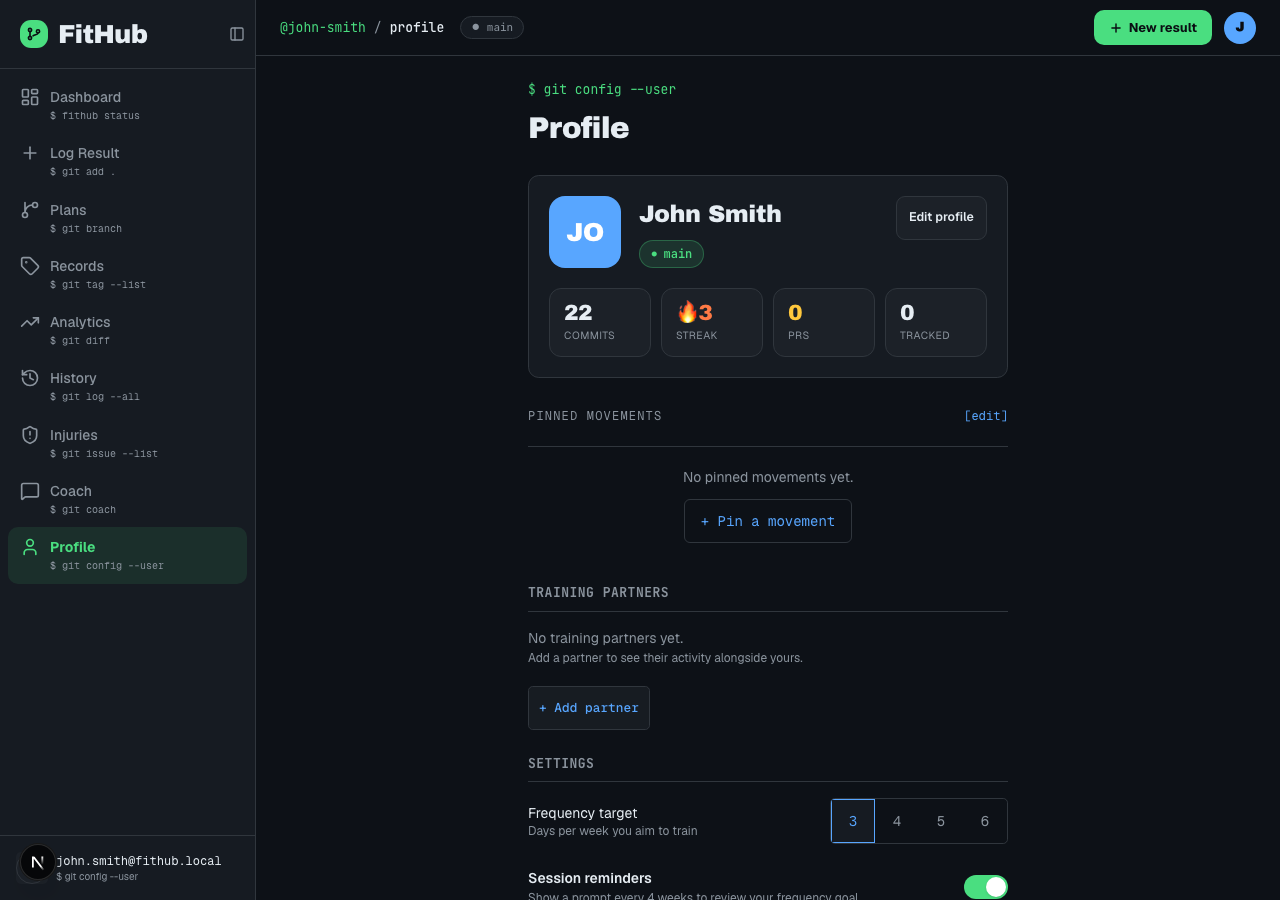
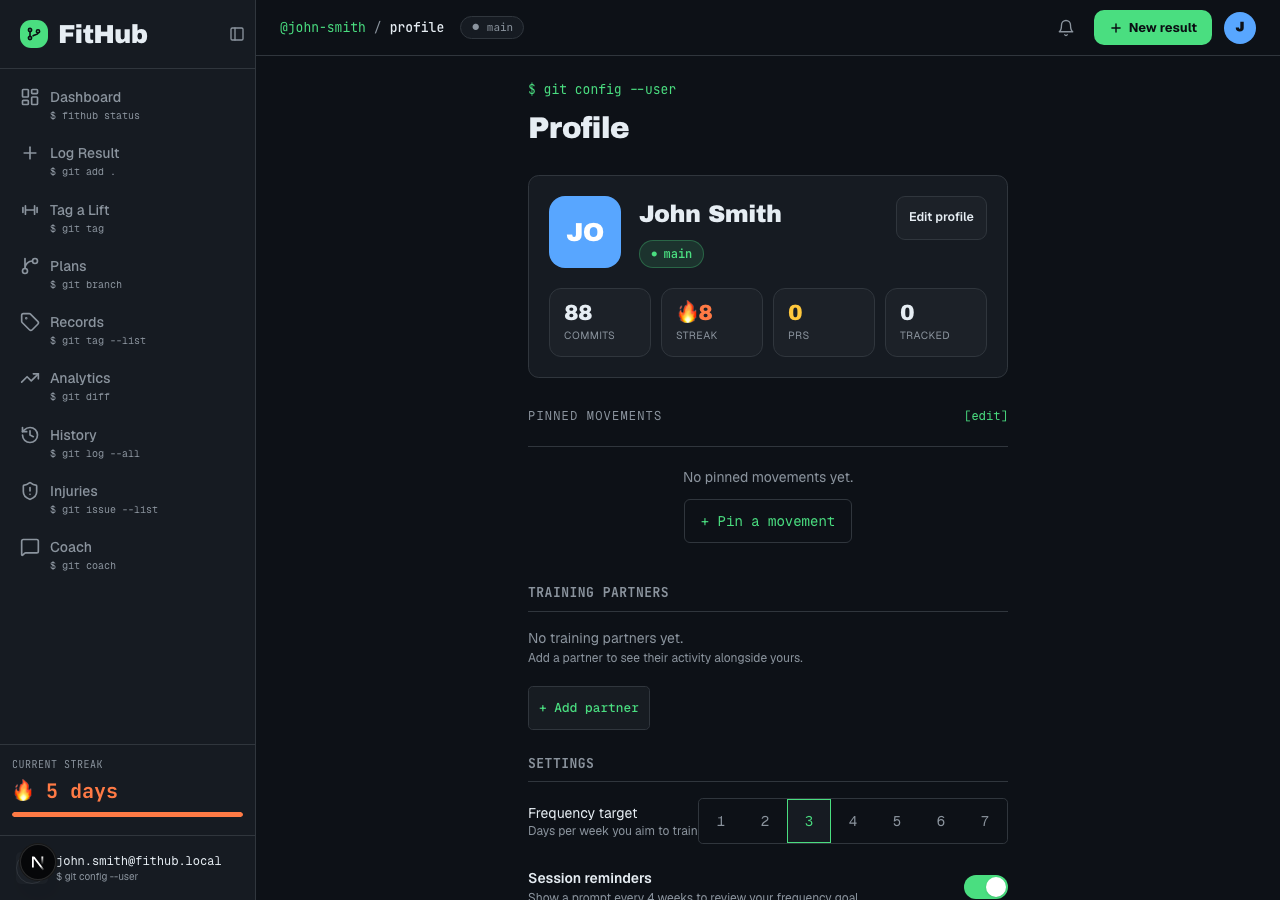
docs: update README and architecture for Programming Flexibility (#337)
* docs: update README and architecture docs for Programming Flexibility

Add session execution and plan wizard to the What it does table, update
test counts (764 -> 1,467 across all suites), expand the plan generator
AI architecture description to cover scaffold-first generation, update
Status & roadmap to mention the feature, and update screenshots.

Add plan wizard, plan detail, and session execute routes to the
architecture.md Where things happen reference table and the app/ tree.
Update the ai/ directory listing to include plan_scaffold.py and
plan_generator.py.

Expand take-screenshots.ts with ensureDemoPlan() (create-then-poll
pattern) and new capture blocks for /plans/new, /plans/[id], and the
session execute view.

* docs: add plan detail and session execute screenshots, refresh all

All 12 README screenshots retaken as John Smith after applying migration
0070 locally. Adds revamp-plan-detail.png and revamp-session-execute.png,
which were deferred when plan generation failed without the migration.

diff --git a/apps/web/e2e/take-screenshots.ts b/apps/web/e2e/take-screenshots.ts
@@ -116,6 +116,81 @@ async function loginAndSetSession(page: Page, _token: string): Promise<void> {
 
 // ── Data seeding ──────────────────────────────────────────────────────────────
 
+async function ensureDemoPlan(token: string): Promise<void> {
+  // Check if a plan already exists.
+  const listRes = await fetch(`${API_URL}/api/v1/plans`, {
+    headers: { Authorization: `Bearer ${token}` },
+  });
+  if (listRes.ok) {
+    const plans = (await listRes.json()) as Array<{ id: string }>;
+    if (plans.length > 0) {
+      console.log(`  ✓ Plan already exists (${plans[0]!.id})`);
+      return;
+    }
+  }
+
+  // POST to generate a new plan (202 async).
+  const today = new Date();
+  const startDate = `${today.getFullYear()}-${String(
+    today.getMonth() + 1,
+  ).padStart(2, "0")}-${String(today.getDate()).padStart(2, "0")}`;
+
+  const createRes = await fetch(`${API_URL}/api/v1/plans`, {
+    method: "POST",
+    headers: {
+      Authorization: `Bearer ${token}`,
+      "Content-Type": "application/json",
+    },
+    body: JSON.stringify({
+      archetype: "general-crossfit",
+      title: "General CrossFit — 8 Weeks",
+      start_date: startDate,
+      weeks: 8,
+      training_age: "intermediate",
+      equipment: ["barbell", "pull-up bar", "kettlebell"],
+      days_per_week: 4,
+    }),
+  });
+
+  if (!createRes.ok) {
+    console.warn(
+      `  ⚠ Plan create returned ${createRes.status} — skipping plan screenshots`,
+    );
+    return;
+  }
+
+  const taskData = (await createRes.json()) as {
+    task_id: string;
+    status: string;
+  };
+  console.log(`  → Plan task created: ${taskData.task_id}`);
+
+  // Poll until complete or timeout (30s).
+  const deadline = Date.now() + 30_000;
+  while (Date.now() < deadline) {
+    await new Promise((r) => setTimeout(r, 1500));
+    const pollRes = await fetch(
+      `${API_URL}/api/v1/plans/tasks/${taskData.task_id}`,
+      {
+        headers: { Authorization: `Bearer ${token}` },
+      },
+    );
+    if (!pollRes.ok) continue;
+    const poll = (await pollRes.json()) as { status: string; plan_id?: string };
+    if (poll.status === "complete") {
+      console.log(`  ✓ Plan generated (plan_id=${poll.plan_id})`);
+      return;
+    }
+    if (poll.status === "failed") {
+      console.warn(`  ⚠ Plan generation failed — skipping plan screenshots`);
+      return;
+    }
+  }
+  console.warn(
+    `  ⚠ Plan generation timed out — plan screenshots may be empty`,
+  );
+}
+
 async function ensureProfile(token: string): Promise<void> {
   const res = await fetch(`${API_URL}/api/v1/profile`, {
     method: "PATCH",
@@ -465,6 +540,9 @@ async function main(): Promise<void> {
   console.log("→ Seeding workout data…");
   await ensureSeededWorkouts(token);
 
+  console.log("→ Ensuring demo plan…");
+  await ensureDemoPlan(token);
+
   console.log("→ Setting up browser session…");
   await loginAndSetSession(page, token);
 
@@ -503,6 +581,51 @@ async function main(): Promise<void> {
   await page.goto(`${BASE_URL}/plans`, { waitUntil: "networkidle" });
   await page.waitForTimeout(800);
   await shot(page, "revamp-plans");
+
+  // Plan wizard — step 1 (archetype selection)
+  await page.goto(`${BASE_URL}/plans/new`, { waitUntil: "networkidle" });
+  await page.waitForTimeout(800);
+  await shot(page, "revamp-plan-wizard");
+
+  // Plan detail — navigate to the first plan
+  const plansRes = await fetch(`${API_URL}/api/v1/plans`, {
+    headers: { Authorization: `Bearer ${token}` },
+  });
+  if (plansRes.ok) {
+    const plansData = (await plansRes.json()) as Array<{
+      id: string;
+      sessions?: Array<{ id: string }>;
+    }>;
+    if (plansData.length > 0) {
+      const planId = plansData[0]!.id;
+      await page.goto(`${BASE_URL}/plans/${planId}`, {
+        waitUntil: "networkidle",
+      });
+      await page.waitForTimeout(1000);
+      await shot(page, "revamp-plan-detail");
+
+      // Session execution — use the sessions embedded in the plan detail response
+      const planDetailRes = await fetch(`${API_URL}/api/v1/plans/${planId}`, {
+        headers: { Authorization: `Bearer ${token}` },
+      });
+      if (planDetailRes.ok) {
+        const planDetail = (await planDetailRes.json()) as {
+          sessions: Array<{ id: string }>;
+        };
+        if (planDetail.sessions.length > 0) {
+          const sessId = planDetail.sessions[0]!.id;
+          await page.goto(
+            `${BASE_URL}/plans/${planId}/sessions/${sessId}/execute`,
+            {
+              waitUntil: "networkidle",
+            },
+          );
+          await page.waitForTimeout(800);
+          await shot(page, "revamp-session-execute");
+        }
+      }
+    }
+  }
 
   // Records (git tag --list)
   await page.goto(`${BASE_URL}/records`, { waitUntil: "networkidle" });

diff --git a/README.md b/README.md
@@ -18,16 +18,17 @@ The app is invite-only and in active development. Use the "Request access" form 
 
 ## What it does
 
-| Theme                     | Details                                                                                                                                                                             |
-| ------------------------- | ----------------------------------------------------------------------------------------------------------------------------------------------------------------------------------- |
-| **Track**                 | `git commit -m` — NL input box parses free-text workout descriptions into structured sets; staged-changes panel for review before committing; RPE stepper                           |
-| **Training log**          | `git log --all` — short hash IDs, PR badges, benchmark / partner / AMRAP / EMOM / strength WOD support; tap any commit to expand full detail                                        |
-| **Load management**       | sRPE × duration perceived load; ACWR via EWMA; ATL/CTL/TSB; Hooper index check-ins; training balance breakdown by muscle group                                                      |
-| **Personal records**      | `git tag --list` — gold hero numbers at 42px, category pills, timeline rail; named-benchmark progress (e.g. Fran 4:47 → 3:48)                                                       |
-| **AI coach & planning**   | SSE streaming chat with session history; hybrid RAG (BM25 + pgvector RRF fusion); adaptive plan generator with deterministic ACWR/readiness triggers; injury train-around           |
-| **Admin & observability** | LLM cost dashboard; per-user token and cost breakdown by model/endpoint; error event log; API health metrics; access-request queue with approve/reject workflow from the login page |
-| **Data model depth**      | Poliquin 4-digit tempo notation; Epley e1RM cached at write time; VBT fields; wearable-ready schema; IDOR-safe team session consent model                                           |
-| **Engineering**           | Invite-only multi-user from day one; deterministic safety logic; 764 tests across four suites; openapi-typescript contract check in CI                                              |
+| Theme                     | Details                                                                                                                                                                                                                                                                                         |
+| ------------------------- | ----------------------------------------------------------------------------------------------------------------------------------------------------------------------------------------------------------------------------------------------------------------------------------------------- |
+| **Track**                 | `git commit -m` — NL input box parses free-text workout descriptions into structured sets; staged-changes panel for review before committing; RPE stepper                                                                                                                                       |
+| **Training log**          | `git log --all` — short hash IDs, PR badges, benchmark / partner / AMRAP / EMOM / strength WOD support; tap any commit to expand full detail                                                                                                                                                    |
+| **Load management**       | sRPE × duration perceived load; ACWR via EWMA; ATL/CTL/TSB; Hooper index check-ins; training balance breakdown by muscle group                                                                                                                                                                  |
+| **Personal records**      | `git tag --list` — gold hero numbers at 42px, category pills, timeline rail; named-benchmark progress (e.g. Fran 4:47 → 3:48)                                                                                                                                                                   |
+| **AI coach & planning**   | SSE streaming chat with session history; hybrid RAG (BM25 + pgvector RRF fusion); adaptive plan generator with deterministic ACWR/readiness triggers; injury train-around; 5-step plan wizard (archetype, equipment, schedule, target movement, training age) with scaffold-first AI generation |
+| **Session execution**     | Live exercise logging during planned sessions — per-set reps and weight inputs, rest timer, AI-suggested exercise swaps from a curated substitutes catalog                                                                                                                                      |
+| **Admin & observability** | LLM cost dashboard; per-user token and cost breakdown by model/endpoint; error event log; API health metrics; access-request queue with approve/reject workflow from the login page                                                                                                             |
+| **Data model depth**      | Poliquin 4-digit tempo notation; Epley e1RM cached at write time; VBT fields; wearable-ready schema; IDOR-safe team session consent model                                                                                                                                                       |
+| **Engineering**           | Invite-only multi-user from day one; deterministic safety logic; 1,467 tests across four suites; openapi-typescript contract check in CI                                                                                                                                                        |
 
 ---
 
@@ -68,6 +69,22 @@ The app is invite-only and in active development. Use the "Request access" form 
     <td align="center"><sub><strong>Records</strong> &mdash; <code>git tag --list</code></sub></td>
     <td align="center"><sub><strong>Profile</strong></sub></td>
   </tr>
+  <tr>
+    <td><img src="screenshots/readme/revamp-plan-wizard.png" alt="Plan Wizard"></td>
+    <td><img src="screenshots/readme/revamp-plan-detail.png" alt="Plan Detail"></td>
+  </tr>
+  <tr>
+    <td align="center"><sub><strong>Plan Wizard</strong> &mdash; 5-step AI plan generator</sub></td>
+    <td align="center"><sub><strong>Plan Detail</strong> &mdash; timeline, volume, session list</sub></td>
+  </tr>
+  <tr>
+    <td><img src="screenshots/readme/revamp-session-execute.png" alt="Session Execution"></td>
+    <td></td>
+  </tr>
+  <tr>
+    <td align="center"><sub><strong>Session Execution</strong> &mdash; live set logging + exercise swap</sub></td>
+    <td></td>
+  </tr>
 </table>
 
 ---
@@ -102,7 +119,7 @@ The frontend calls FastAPI exclusively. Supabase handles auth (magic-link + Goog
 | Database | Supabase Postgres + pgvector, RLS on every table                                 |
 | Auth     | Supabase magic-link + Google OAuth, ES256 JWT via JWKS                           |
 | AI       | Claude Haiku 4.5 via Instructor, SSE streaming, hybrid RAG (BM25 + pgvector RRF) |
-| Testing  | pytest (426), pgTAP RLS (52), Playwright E2E (96), Vitest unit (190)             |
+| Testing  | pytest (732), pgTAP RLS (52), Playwright E2E (151), Vitest unit (532)            |
 | CI       | GitHub Actions: lint, typecheck, test, contract drift, security audit            |
 | Hosting  | Railway (API) · Vercel (web) · Supabase (DB / auth)                              |
 
@@ -118,7 +135,7 @@ The core principle: **safety-critical logic is deterministic Python; the LLM gen
 
 **Streaming coach** — SSE endpoint with persistent session history. Retrieval combines BM25 keyword search and pgvector cosine similarity with Reciprocal Rank Fusion. Sources include CrossFit Level 1 programming standards, coaching notes, and session history. Context is XML-delimited before injection to mitigate prompt injection.
 
-**Adaptive plan generator** — returns HTTP 202 immediately and exposes a polling URL (async task pattern). Inputs are structured: Epley 1RM estimates, current ACWR, and Hooper readiness score. Output is validated against the sports-science knowledge base before persisting.
+**Adaptive plan generator** — returns HTTP 202 immediately and exposes a polling URL (async task pattern). Uses a scaffold-first approach: a deterministic layer builds the full session/movement/set skeleton based on archetype constraints and equipment availability, then the LLM fills in coaching notes and micro-adjustments. Inputs are structured: archetype, equipment preset, target movement (with Epley 1RM or prerequisite ladder), training age, program duration, and current ACWR/Hooper readiness score. Output is validated against the sports-science knowledge base before persisting. Archetype-specific prompts route to different instruction sets; model selection adapts to archetype complexity.
 
 **Adaptation engine** — deterministic triggers fire when ACWR >1.5, readiness <0.4, consecutive missed sessions, or RPE drift exceeds threshold. When a trigger fires, it is passed to the LLM with full context to generate a rationale. The LLM does not decide _whether_ to adapt.
 
@@ -202,10 +219,10 @@ FitHub has four test suites and passes strict static analysis. pgTAP is worth hi
 
 | Suite              | Tool        | Count | Covers                                                                     |
 | ------------------ | ----------- | ----- | -------------------------------------------------------------------------- |
-| Unit + integration | pytest      | 426   | API routes, repositories, AI stubs, rate limiting, auth, admin portal      |
+| Unit + integration | pytest      | 732   | API routes, repositories, AI stubs, rate limiting, auth, admin portal      |
 | DB isolation       | pgTAP       | 52    | RLS policies on every table, cross-user data isolation                     |
-| Browser E2E        | Playwright  | 96    | Auth flow, workout CRUD, coach chat, plan generation, login page, admin UI |
-| Unit (frontend)    | Vitest      | 190   | Utility functions, hooks, API client, component logic                      |
+| Browser E2E        | Playwright  | 151   | Auth flow, workout CRUD, coach chat, plan generation, login page, admin UI |
+| Unit (frontend)    | Vitest      | 532   | Utility functions, hooks, API client, component logic                      |
 | Static analysis    | mypy + ruff | —     | Strict mypy, zero `Any` in models, ruff format                             |
 
 ```bash
@@ -240,7 +257,7 @@ Dependabot keeps Actions SHAs current monthly and pip/npm dependencies weekly.
 
 ## Status & roadmap
 
-The design system revamp shipped in full — 13 scopes across every page and route, including the new `/track` NL workout entry flow, git-graph brand mark, Archivo Black headings, JetBrains Mono data font, and green accent (`#4ADE80`) throughout. The injury-aware coach feature shipped: 21 body regions, 3-state status lifecycle, prompt context injection, and the deterministic `modify-workout` endpoint. The admin portal is now live with LLM cost tracking, error event log, and API health dashboard. The login page was redesigned with an in-app "Request access" form; submitted requests flow into the admin access-request queue for approve/reject review. Deployment to Railway + Vercel + Supabase production is the current milestone.
+The design system revamp shipped in full — 13 scopes across every page and route, Archivo Black headings, JetBrains Mono data font, and green accent throughout. The injury-aware coach feature shipped: 21 body regions, 3-state status lifecycle, deterministic `modify-workout` endpoint. The admin portal is live with LLM cost tracking, error event log, and API health dashboard. The login page was redesigned with an in-page "Request access" form. **Programming Flexibility** shipped: 5-step plan creation wizard, scaffold-first AI plan generator with 7 archetypes, plan detail page (mesocycle progress, timeline rail, weekly volume sparklines, session list), live session execution with per-set logging and rest timer, and AI-suggested exercise swap. Deployment to Railway + Vercel + Supabase production is the current milestone.
 
 Near-term:
 

diff --git a/docs/architecture.md b/docs/architecture.md
@@ -45,7 +45,8 @@ apps/api/app/
 ├── ai/               # LLM integration — coach, parser, plan generator
 │   ├── coach.py      # Streaming coach endpoint logic
 │   ├── parser.py     # NL workout parser (Instructor + structured output)
-│   ├── planner.py    # Adaptive plan generator
+│   ├── plan_scaffold.py  # Deterministic plan skeleton (archetype + equipment constraints)
+│   ├── plan_generator.py # LLM fill layer (coaching notes, micro-adjustments)
 │   ├── prompts.py    # All prompt templates (extracted from routers)
 │   ├── retrieval.py  # BM25 + pgvector hybrid RAG
 │   └── safety.py     # Safety classifier, red-flag detection
@@ -73,6 +74,10 @@ apps/web/app/
 │   ├── log/
 │   ├── coach/
 │   ├── plans/
+│   │   ├── [id]/
+│   │   │   ├── sessions/[sessionId]/execute/   # live session execution
+│   │   │   └── adaptations/
+│   │   └── new/                               # plan creation wizard
 │   ├── records/
 │   ├── analytics/
 │   └── profile/
@@ -125,19 +130,27 @@ The invite-only gate is enforced at two layers. The `before_user_created` Supaba
 
 ## Where things happen (quick reference)
 
-| Thing                         | Where to look                                                   |
-| ----------------------------- | --------------------------------------------------------------- |
-| Auth session validation       | `apps/api/app/dependencies/common.py` → `get_current_user`      |
-| Workout CRUD                  | `apps/api/app/routers/workouts.py` + `repositories/workouts.py` |
-| Load calculation (ACWR, sRPE) | `apps/api/app/engine/acwr.py`                                   |
-| AI coach streaming            | `apps/api/app/ai/coach.py` + `apps/api/app/routers/coach.py`    |
-| NL workout parser             | `apps/api/app/ai/parser.py`                                     |
-| Adaptive plan generator       | `apps/api/app/ai/planner.py`                                    |
-| Injury train-around           | `apps/api/app/engine/injury.py` (deterministic — no LLM)        |
-| Safety classifier             | `apps/api/app/ai/safety.py`                                     |
-| RLS policy tests              | `supabase/tests/`                                               |
-| OpenAPI → TypeScript types    | `packages/shared/` + `pnpm generate-types`                      |
-| Admin portal                  | `apps/web/app/admin/` + `apps/api/app/routers/admin.py`         |
+| Thing                         | Where to look                                                       |
+| ----------------------------- | ------------------------------------------------------------------- |
+| Auth session validation       | `apps/api/app/dependencies/common.py` → `get_current_user`          |
+| Workout CRUD                  | `apps/api/app/routers/workouts.py` + `repositories/workouts.py`     |
+| Load calculation (ACWR, sRPE) | `apps/api/app/engine/acwr.py`                                       |
+| AI coach streaming            | `apps/api/app/ai/coach.py` + `apps/api/app/routers/coach.py`        |
+| NL workout parser             | `apps/api/app/ai/parser.py`                                         |
+| Adaptive plan generator       | `apps/api/app/ai/planner.py`                                        |
+| Injury train-around           | `apps/api/app/engine/injury.py` (deterministic — no LLM)            |
+| Safety classifier             | `apps/api/app/ai/safety.py`                                         |
+| RLS policy tests              | `supabase/tests/`                                                   |
+| OpenAPI → TypeScript types    | `packages/shared/` + `pnpm generate-types`                          |
+| Admin portal                  | `apps/web/app/admin/` + `apps/api/app/routers/admin.py`             |
+| Plan wizard (5-step)          | `apps/web/app/(app)/plans/new/` + `components/plans/wizard/`        |
+| Plan detail (timeline, etc.)  | `apps/web/app/(app)/plans/[id]/` + `components/plans/`              |
+| Session execution + set log   | `apps/web/app/(app)/plans/[id]/sessions/[sessionId]/execute/`       |
+| Exercise swap sheet           | `apps/web/components/plans/ExerciseSwapSheet.tsx`                   |
+| Next session card             | `apps/web/components/dashboard/NextSessionCard.tsx`                 |
+| Plan scaffold (deterministic) | `apps/api/app/ai/plan_scaffold.py`                                  |
+| Plan AI fill (LLM)            | `apps/api/app/ai/plan_generator.py`                                 |
+| Movement substitutes          | `apps/api/app/routers/plans.py` → `GET /movements/{id}/substitutes` |
 
 ---
 
